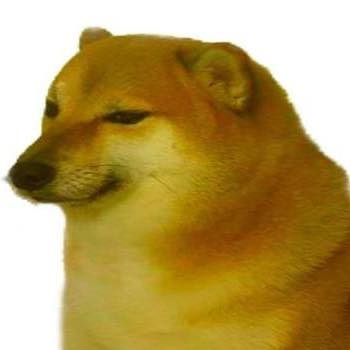
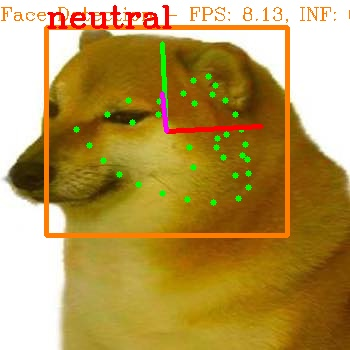
multipart response

diff --git a/api.py b/api.py
@@ -6,8 +6,11 @@ import argparse
 import cv2
 import json
 import numpy as np
+import time
+import io
 
 import ImageProcessor
+import utils
 
 
 parser = argparse.ArgumentParser(description="Video Inference")
@@ -18,6 +21,18 @@ async def proctor_blocking(request):
 
     if processor is None:
         print('Using cached response')
+        frame = cv2.imread('image.jpg')
+        _, byte_frame = cv2.imencode('.jpg',frame)
+
+        # web.FileResponse()
+
+        mpwriter = aiohttp.MultipartWriter(subtype='mixed')
+        mpwriter.append_json({0: 'hello'}, {'name': 'response'})
+        mpwriter.append(byte_frame.tostring(),
+                        {'CONTENT-TYPE': 'image/jpeg',
+                         'name': 'detection'})
+
+        return web.Response(status=200, body=mpwriter)
 
         #respond here
 
@@ -35,10 +50,29 @@ async def proctor_blocking(request):
     nparr = np.frombuffer(imageb, np.uint8)
     image = cv2.imdecode(nparr, cv2.IMREAD_COLOR)
 
-    cv2.imwrite('image.jpg', image)
+    start = time.time()
+    package = {'image': image}
+    package = processor(package)
+    end = time.time()
+    inf_time = end - start
 
-    return web.Response(text='{} sized of {} successfully stored'
-                             ''.format(233, 3333))
+    print(1./inf_time, inf_time)
+
+    frame = utils.render_gui(package, inf_time)
+
+    _, byte_frame = cv2.imencode('.jpg',frame)
+
+    cv2.imwrite('image.jpg', frame)
+
+    #web.FileResponse()
+
+    mpwriter = aiohttp.MultipartWriter(subtype='mixed')
+    mpwriter.append_json({0:'hello'}, {'name' : 'response'})
+    mpwriter.append(byte_frame.tostring(),
+                    {'CONTENT-TYPE': 'image/jpeg',
+                     'name' : 'detection'})
+
+    return web.Response(status=200,body=mpwriter)
 
 async def proctor_nonblocking(request):
     name = request.match_info.get('name', "Anonymous")
@@ -55,6 +89,7 @@ if __name__ == '__main__':
         with open('model_config.json', 'r') as f:
             config = json.load(f)
         processor = ImageProcessor.FrameDetectionPipeline(opt.ov_path, config)
+        processor.initialize()
     except Exception as e:
         print('ERROR: Couldn\'t load image processor')
         print(e)
